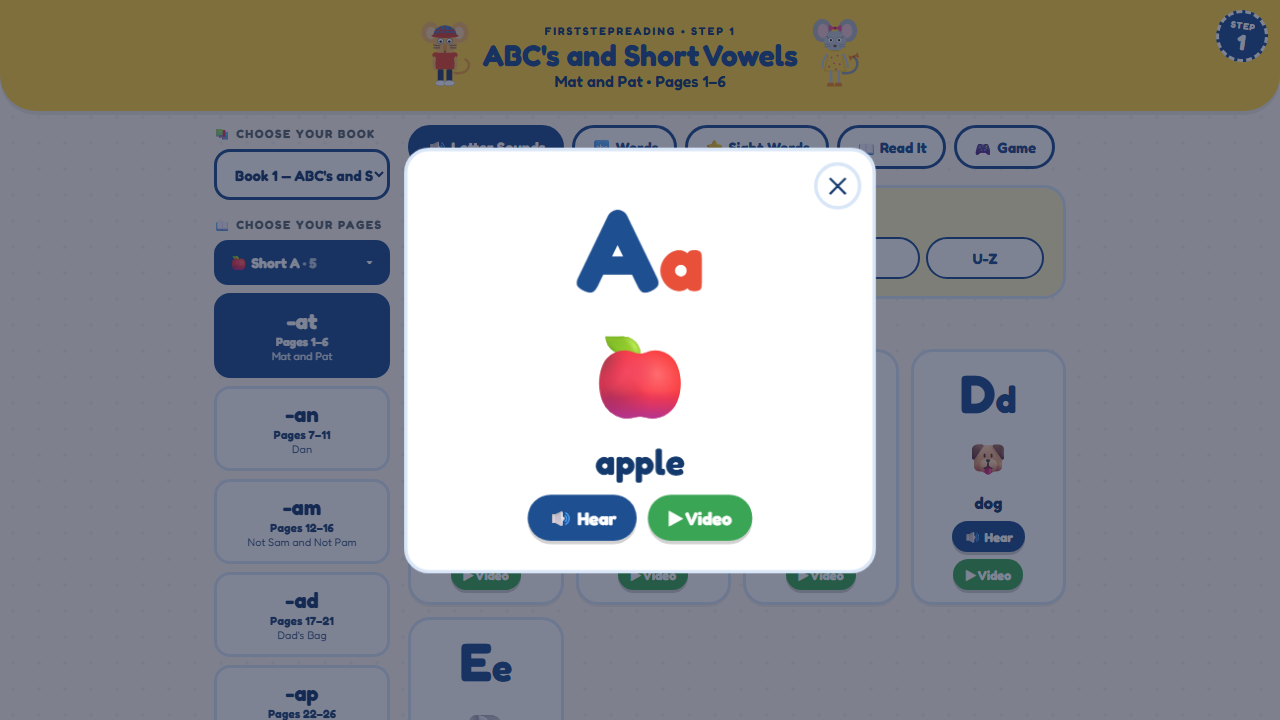
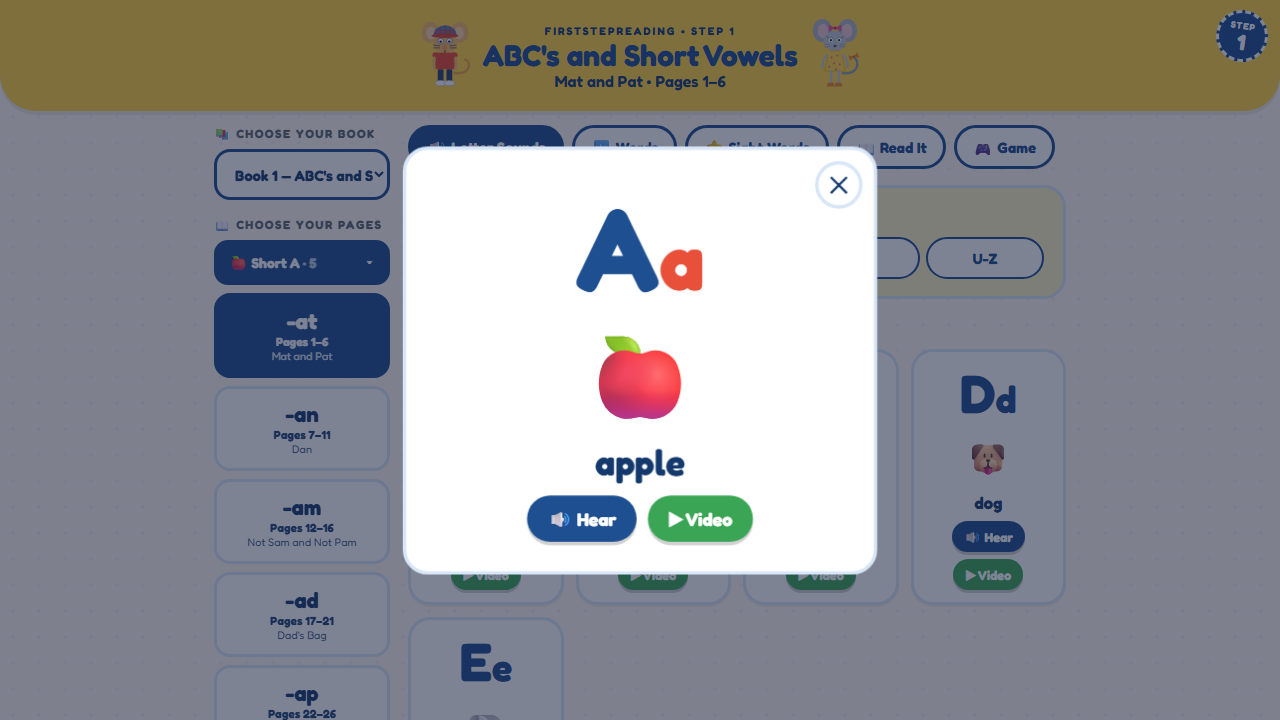
Improve letter popout accessibility

diff --git a/src/components/tabs/LetterSoundsTab.jsx b/src/components/tabs/LetterSoundsTab.jsx
@@ -164,17 +164,10 @@ export default function LetterSoundsTab({ speech }) {
                   boxShadow: isPlaying ? ring : "0 2px 0 rgba(0,0,0,0.05)",
                 }}
               >
-                <div
+                <button
+                  type="button"
                   onClick={() => openLetter(item)}
-                  role="button"
-                  tabIndex={0}
                   aria-label={`Pop out ${upper}`}
-                  onKeyDown={(event) => {
-                    if (event.key === "Enter" || event.key === " ") {
-                      event.preventDefault();
-                      openLetter(item);
-                    }
-                  }}
                   style={{
                     cursor: "pointer",
                     width: "100%",
@@ -182,6 +175,10 @@ export default function LetterSoundsTab({ speech }) {
                     flexDirection: "column",
                     alignItems: "center",
                     gap: 4,
+                    padding: 0,
+                    border: "none",
+                    background: "transparent",
+                    fontFamily: "inherit",
                   }}
                 >
                   <div
@@ -211,7 +208,7 @@ export default function LetterSoundsTab({ speech }) {
                   >
                     {item.word}
                   </div>
-                </div>
+                </button>
                 <div
                   style={{
                     display: "flex",

diff --git a/src/components/PopOut.jsx b/src/components/PopOut.jsx
@@ -1,4 +1,4 @@
-import { useEffect } from "react";
+import { useEffect, useRef } from "react";
 import { C, cardStyle } from "../theme.js";
 
 // Full-screen pop-out used by the Words and Sight tabs: a big, focus-holding
@@ -11,6 +11,19 @@ export default function PopOut({
   maxWidth = 420,
   padding = "34px 24px 26px",
 }) {
+  const closeButtonRef = useRef(null);
+
+  useEffect(() => {
+    const returnFocus = document.activeElement;
+    closeButtonRef.current?.focus();
+
+    return () => {
+      if (returnFocus instanceof HTMLElement && returnFocus.isConnected) {
+        returnFocus.focus();
+      }
+    };
+  }, []);
+
   useEffect(() => {
     const onKey = (e) => e.key === "Escape" && onClose();
     window.addEventListener("keydown", onKey);
@@ -46,6 +59,7 @@ export default function PopOut({
         }}
       >
         <button
+          ref={closeButtonRef}
           type="button"
           onClick={onClose}
           aria-label="Close"

diff --git a/e2e/app.spec.js b/e2e/app.spec.js
@@ -68,18 +68,23 @@ test("letter-sound sets cover A-Z and open the matching video", async ({ page })
   await expect(letterDialog.locator('[data-letter-popout="a"]')).toContainText(
     "apple",
   );
+  await expect(letterDialog.getByRole("button", { name: "Close" })).toBeFocused();
   await letterDialog.getByRole("button", { name: "Close" }).click();
+  await expect(letterDialog).toBeHidden();
+  await expect(aCard.getByRole("button", { name: "Pop out A" })).toBeFocused();
 
   const popoutButton = aCard.getByRole("button", { name: "Pop out A" });
   await popoutButton.focus();
   await page.keyboard.press("Enter");
   await expect(letterDialog).toBeVisible();
   await letterDialog.getByRole("button", { name: "Close" }).click();
+  await expect(letterDialog).toBeHidden();
 
   await popoutButton.focus();
   await page.keyboard.press("Space");
   await expect(letterDialog).toBeVisible();
   await letterDialog.getByRole("button", { name: "Close" }).click();
+  await expect(letterDialog).toBeHidden();
 
   for (const [group, letters] of [
     ["A-E", "abcde"],